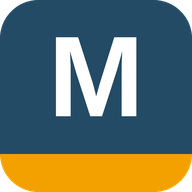
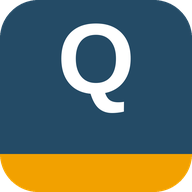
Add files via upload

Changed region(s): [[0.2812, 0.0938, 0.7188, 0.625]]

diff --git a/index.html b/index.html
@@ -32,8 +32,8 @@ button{font:inherit;cursor:pointer;border:0;background:none;color:inherit}
 .top{background:var(--blue);color:#fff;padding:env(safe-area-inset-top) 0 0}
 .top-in{max-width:780px;margin:0 auto;padding:14px var(--pad);display:flex;align-items:center;gap:12px}
 .mark{width:34px;height:34px;border-radius:8px;background:var(--white);color:var(--blue);
-  display:grid;place-items:center;font-weight:800;font-size:18px;flex:0 0 auto;
-  box-shadow:inset 0 -6px 0 var(--orange)}
+  display:grid;place-items:center;font-weight:800;font-size:17px;flex:0 0 auto;
+  line-height:1;padding-bottom:5px;box-shadow:inset 0 -6px 0 var(--orange)}
 .top h1{font-size:16px;font-weight:600;margin:0;letter-spacing:.2px}
 .top .sub{font-size:12px;color:#c2d6e1;margin:0}
 .top-act{margin-left:auto;display:flex;gap:8px}
@@ -181,7 +181,7 @@ button{font:inherit;cursor:pointer;border:0;background:none;color:inherit}
 
 <header class="top">
   <div class="top-in">
-    <div class="mark">M</div>
+    <div class="mark">Q</div>
     <div>
       <h1>Entraînement MCTB</h1>
       <p class="sub" id="subtitle">DPE et audit énergétique</p>

diff --git a/sw.js b/sw.js
@@ -1,6 +1,6 @@
 /* Service worker : rend l'application utilisable hors connexion.
    Changez CACHE a chaque mise a jour du contenu pour forcer le rafraichissement. */
-const CACHE = "mctb-quiz-v9";
+const CACHE = "mctb-quiz-v10";
 const BASE = [
   "./", "./index.html", "./questionnaires.json", "./manifest.json",
   "./icone-192.png", "./icone-512.png"
